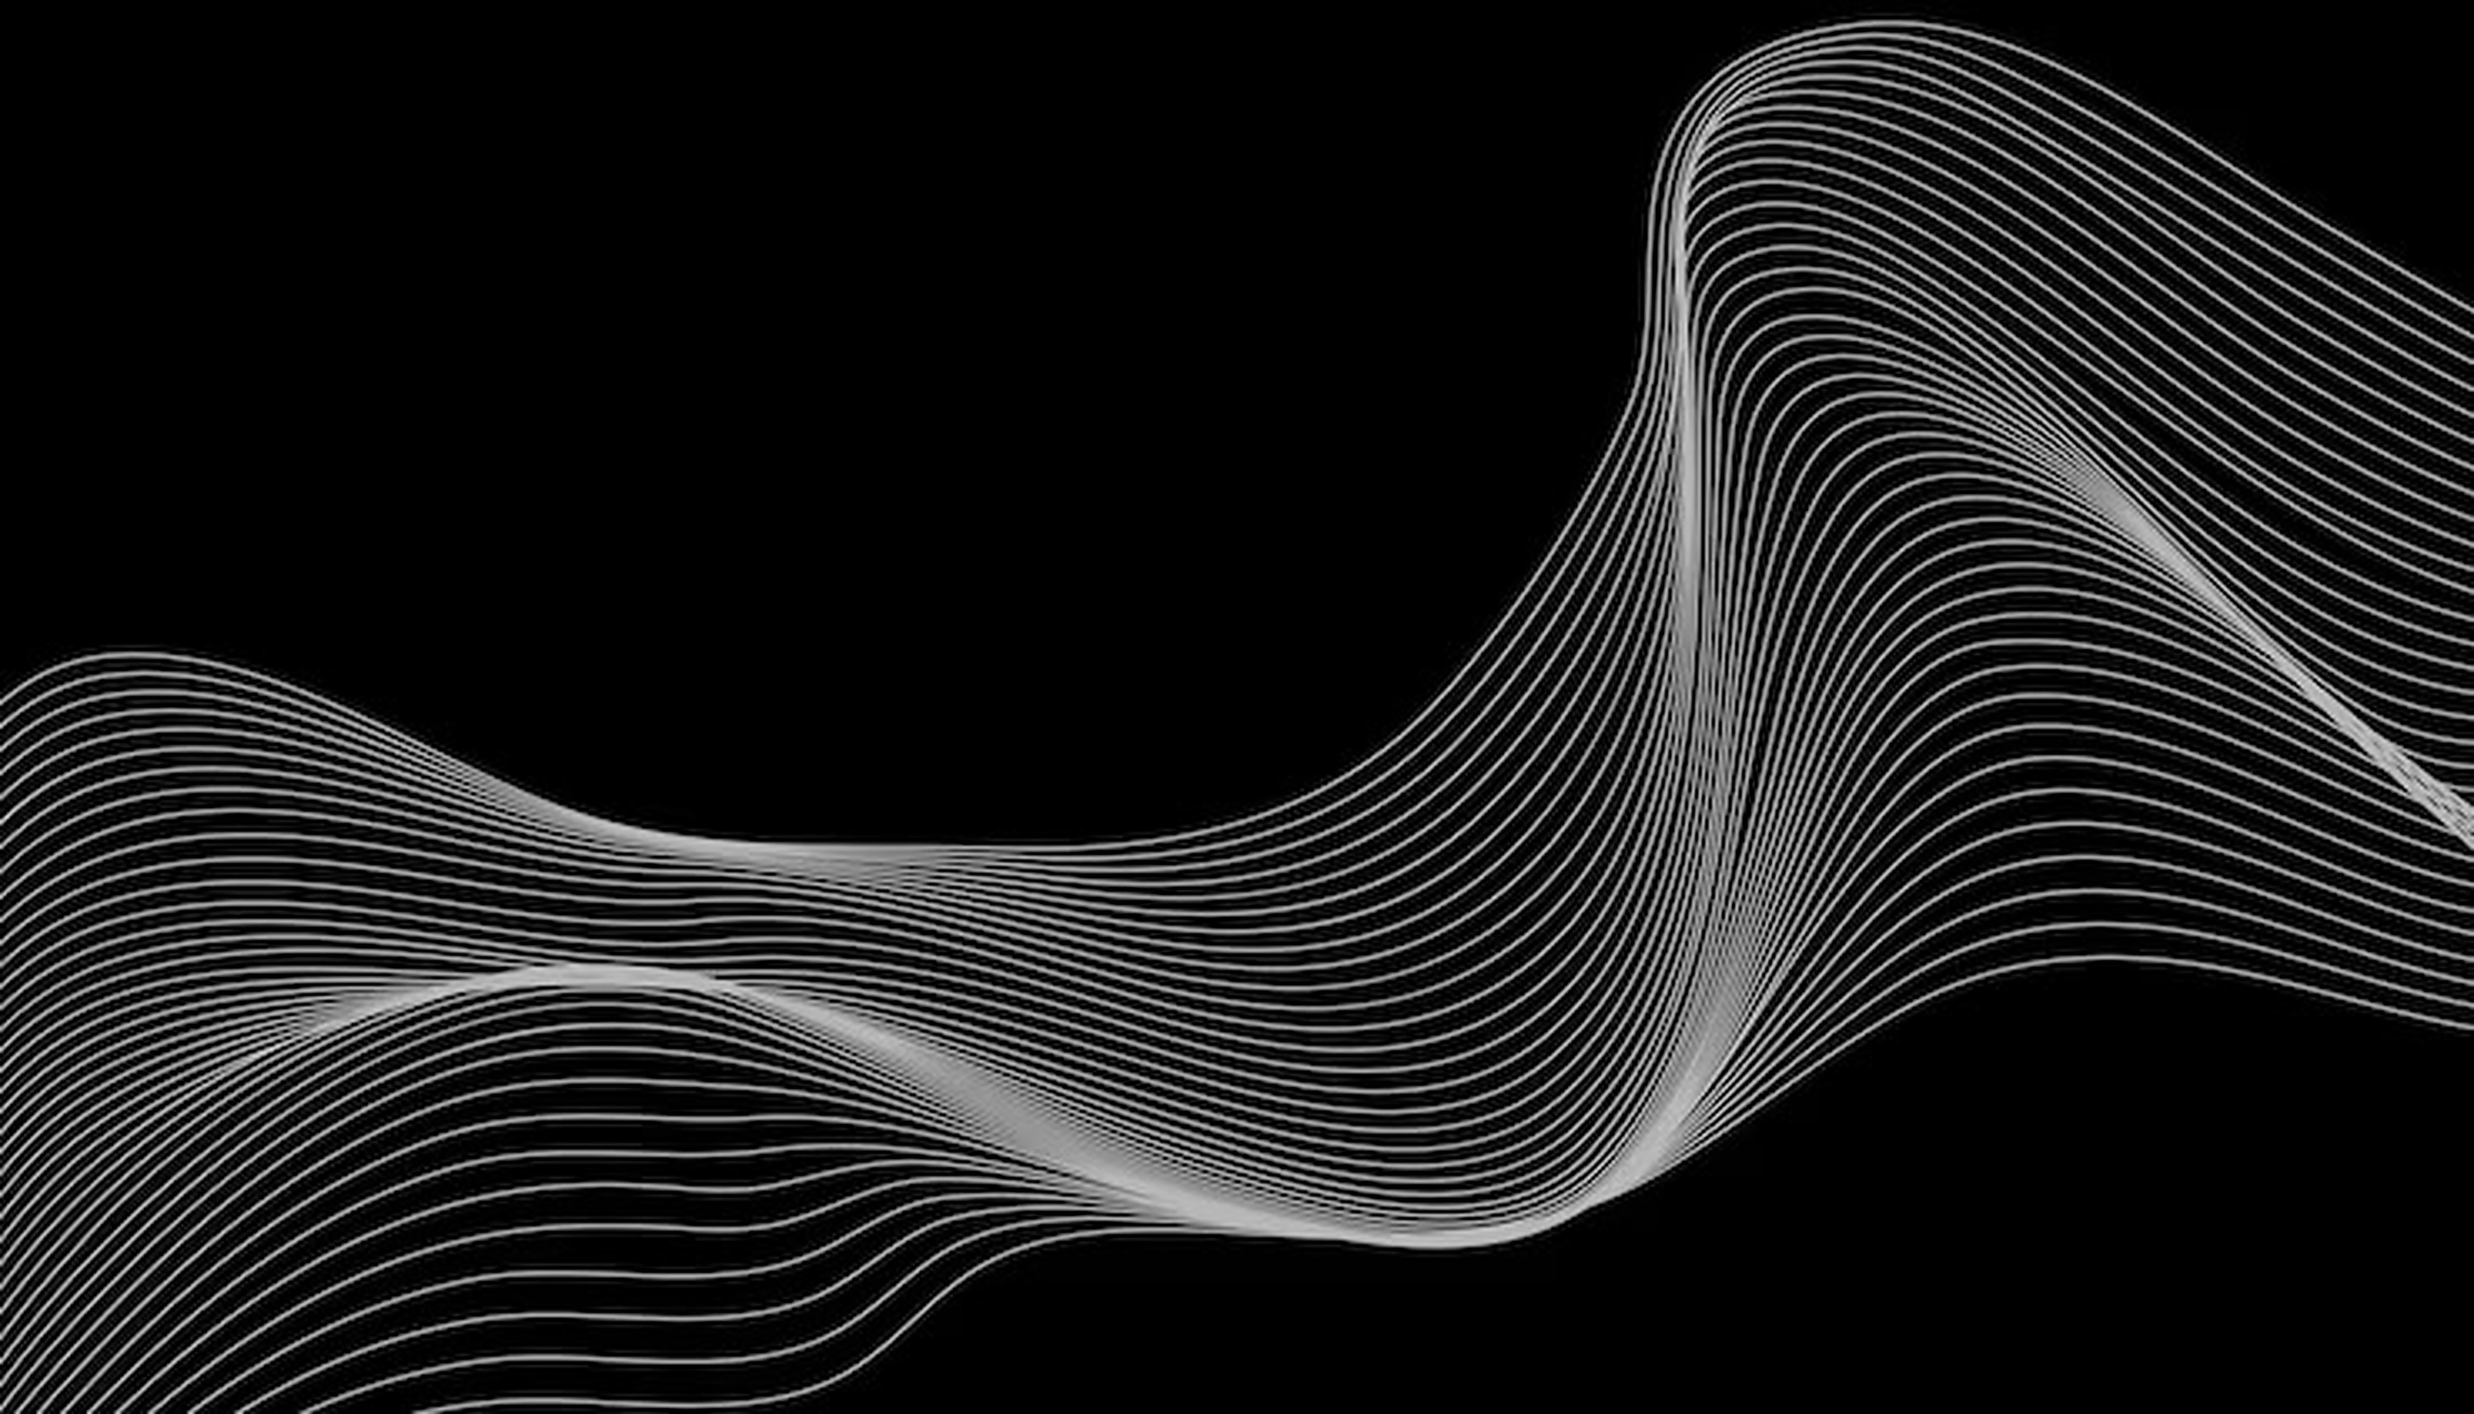
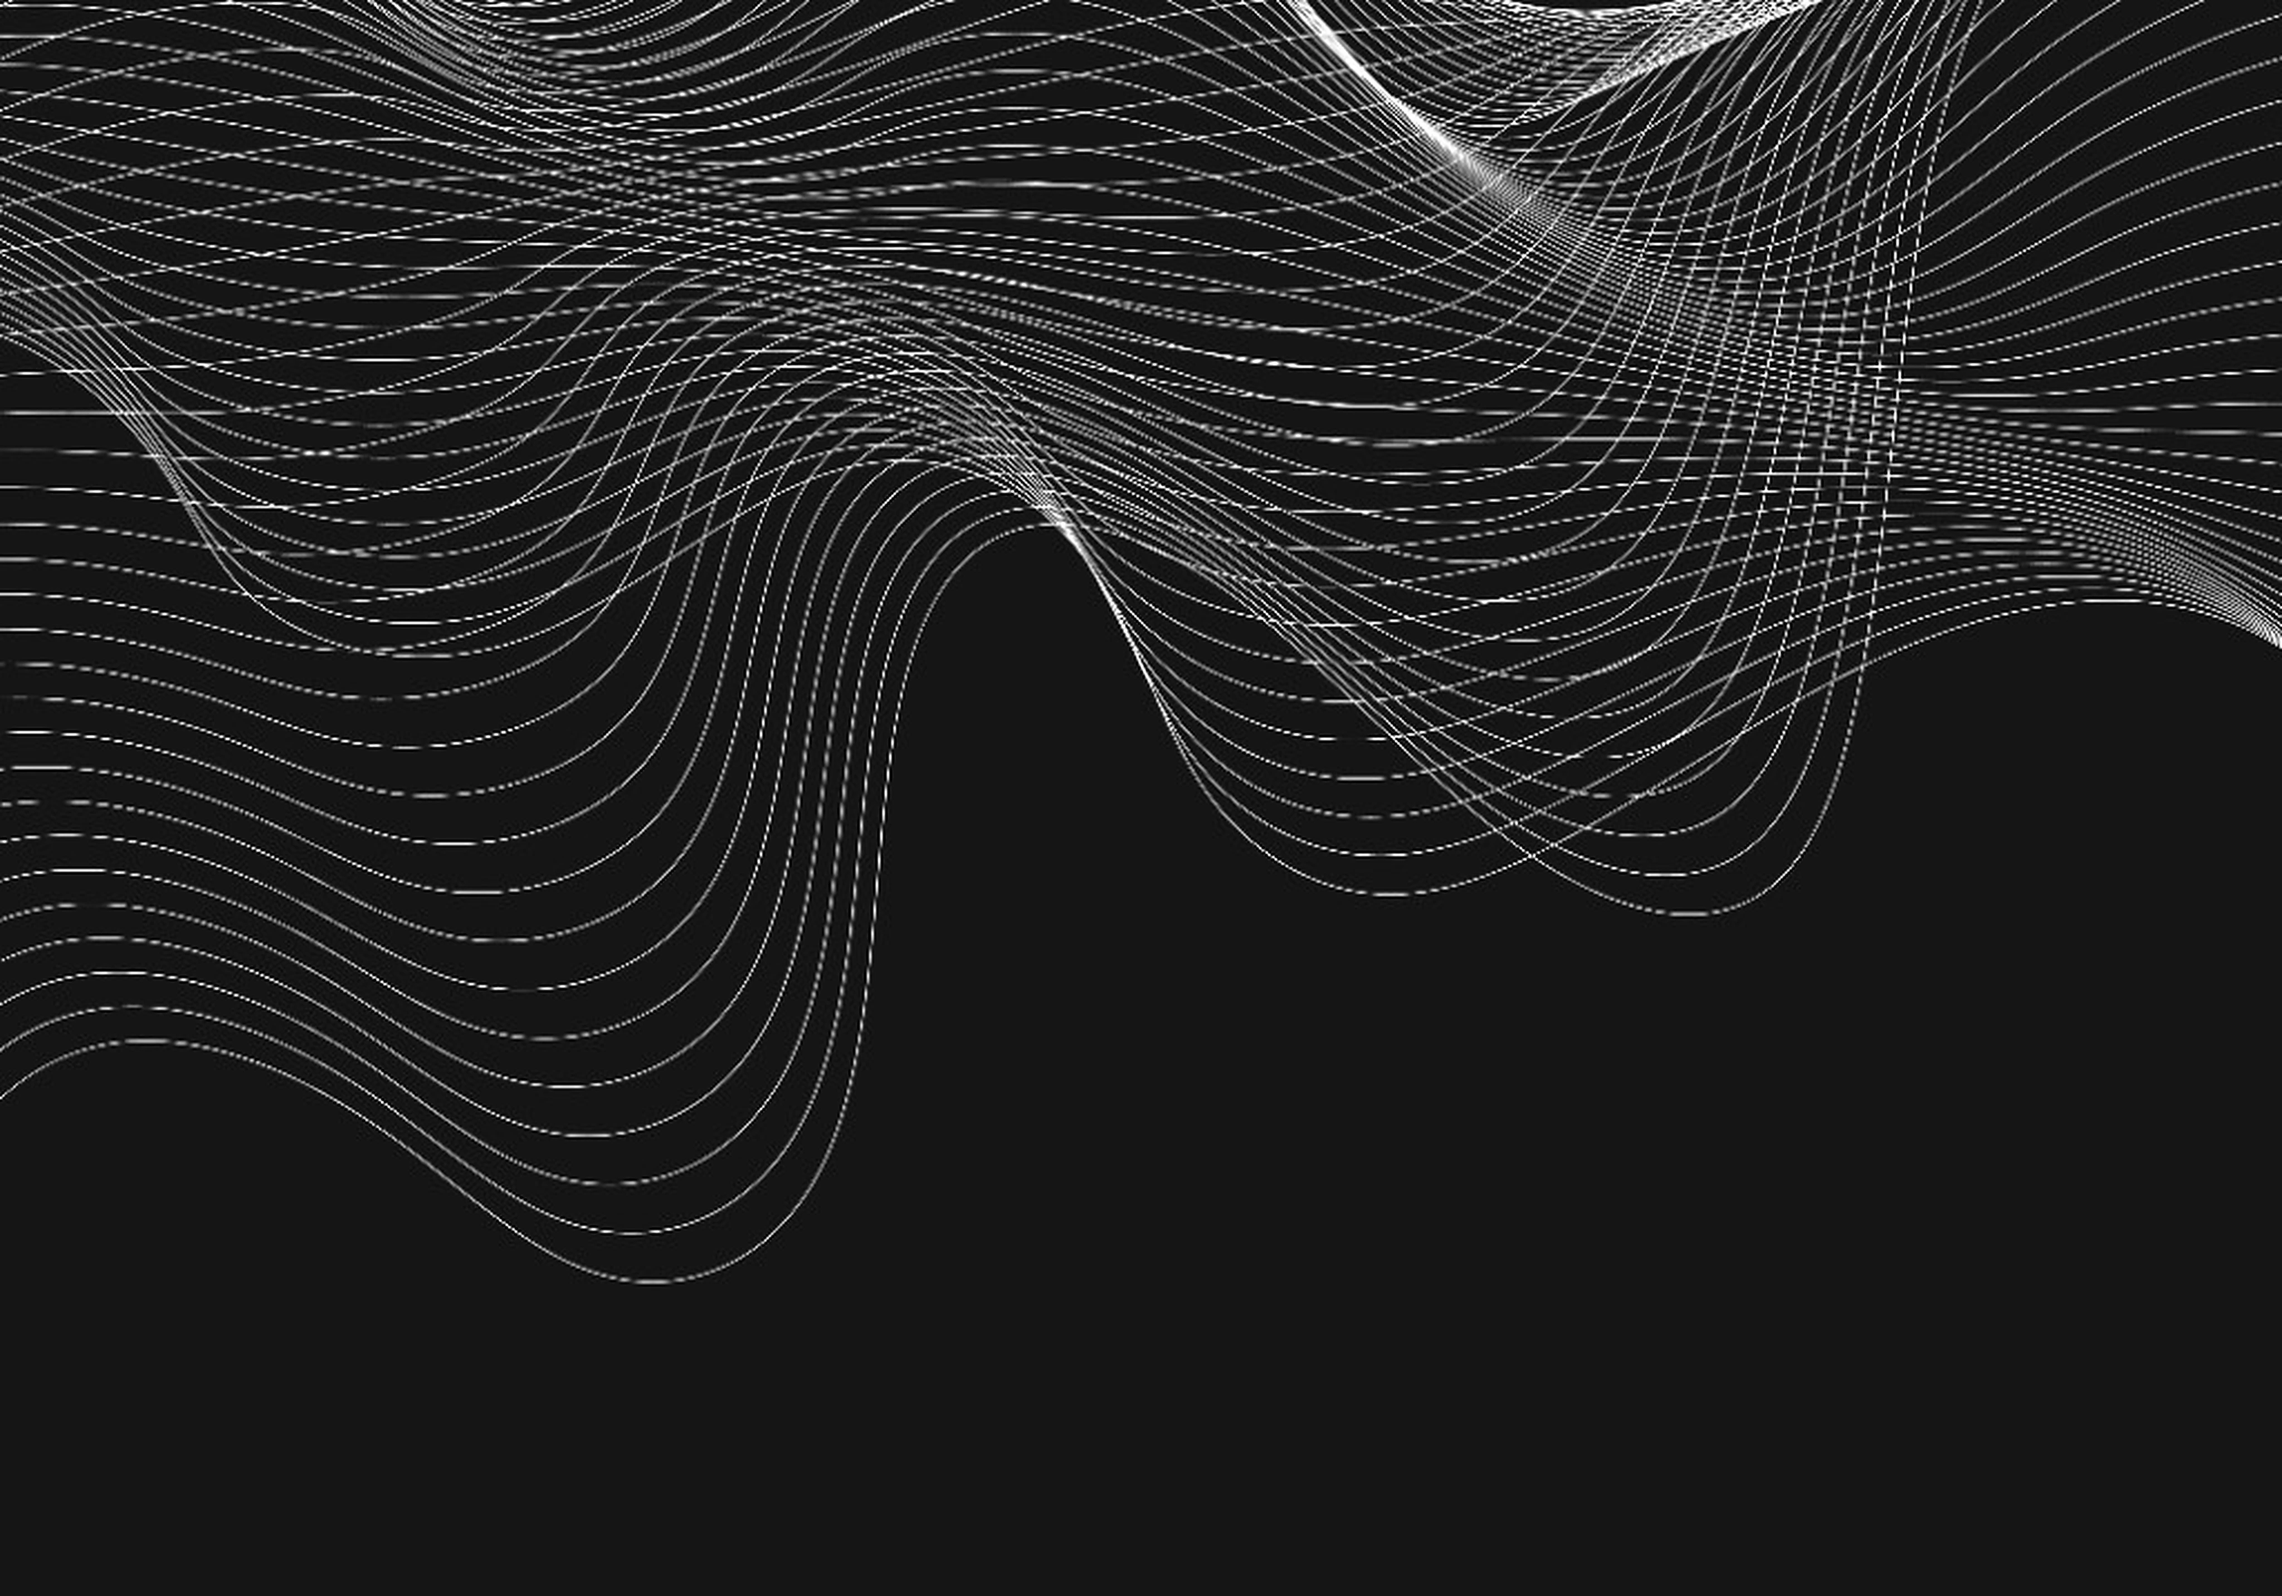
Yeni topografik arka plan görselini uygula
4096px yüksek çözünürlük, üst hizalı konumlandırma, her iki tema desteği.

diff --git a/src/index.css b/src/index.css
@@ -19,7 +19,8 @@
   --color-navbar-bg: rgba(9, 9, 11, 0.75);
   --color-logo-mark-bg: rgba(255, 255, 255, 0.05);
   --color-overlay: rgba(0, 0, 0, 0.72);
-  --color-bg-pattern-opacity: 0.48;
+  --color-bg-pattern-opacity: 0.55;
+  --color-bg-pattern-position: center top;
   --color-bg-glow:
     radial-gradient(ellipse 90% 60% at 50% -25%, rgba(59, 130, 246, 0.1), transparent 55%);
   --shadow-card: 0 0 0 1px rgba(255, 255, 255, 0.04);
@@ -49,7 +50,8 @@
   --color-navbar-bg: rgba(255, 255, 255, 0.78);
   --color-logo-mark-bg: rgba(255, 255, 255, 0.75);
   --color-overlay: rgba(15, 23, 42, 0.45);
-  --color-bg-pattern-opacity: 0.38;
+  --color-bg-pattern-opacity: 0.42;
+  --color-bg-pattern-position: center top;
   --color-bg-glow:
     radial-gradient(ellipse 90% 60% at 50% -20%, rgba(37, 99, 235, 0.06), transparent 55%);
   --shadow-card: 0 1px 2px rgba(15, 23, 42, 0.05), 0 4px 16px rgba(15, 23, 42, 0.04);
@@ -107,7 +109,7 @@ body::after {
   inset: 0;
   background-image: url("/bg-pattern.webp"), url("/bg-pattern.png");
   background-size: cover;
-  background-position: center right;
+  background-position: var(--color-bg-pattern-position);
   background-repeat: no-repeat;
   opacity: var(--color-bg-pattern-opacity);
   pointer-events: none;
